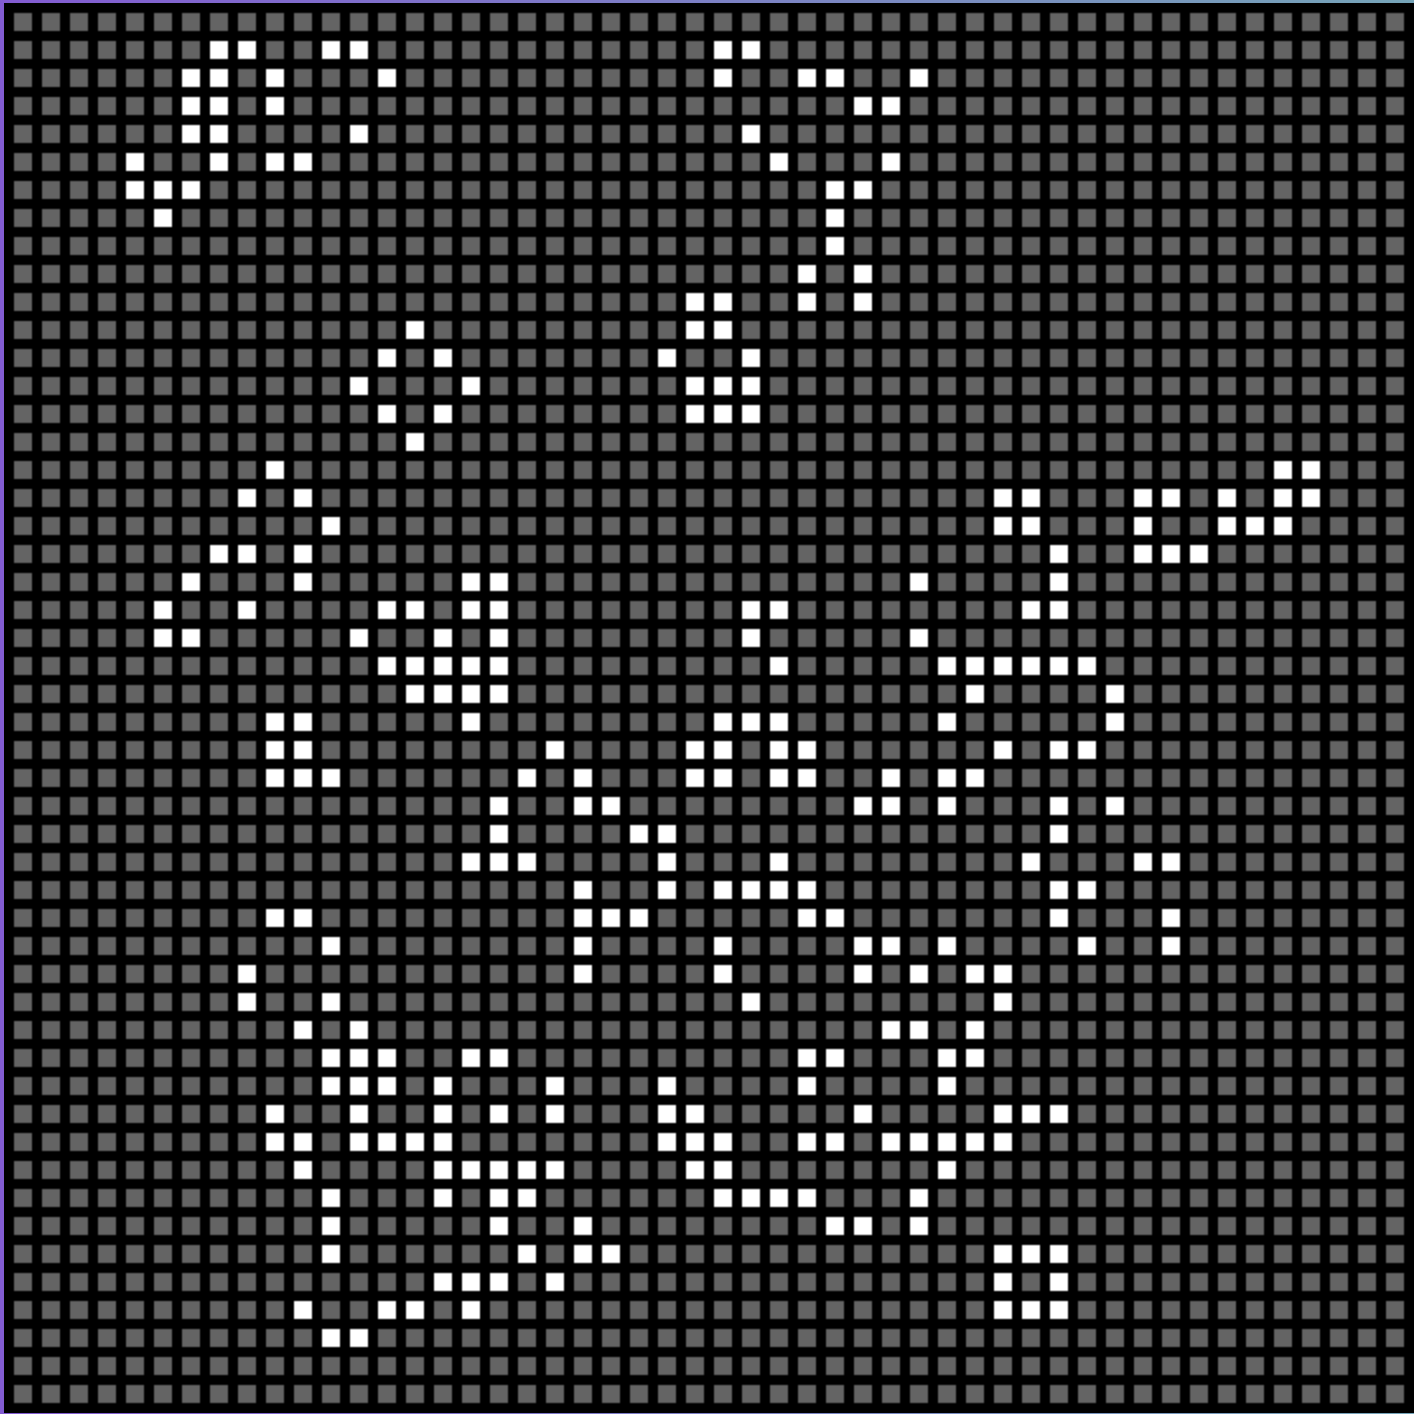
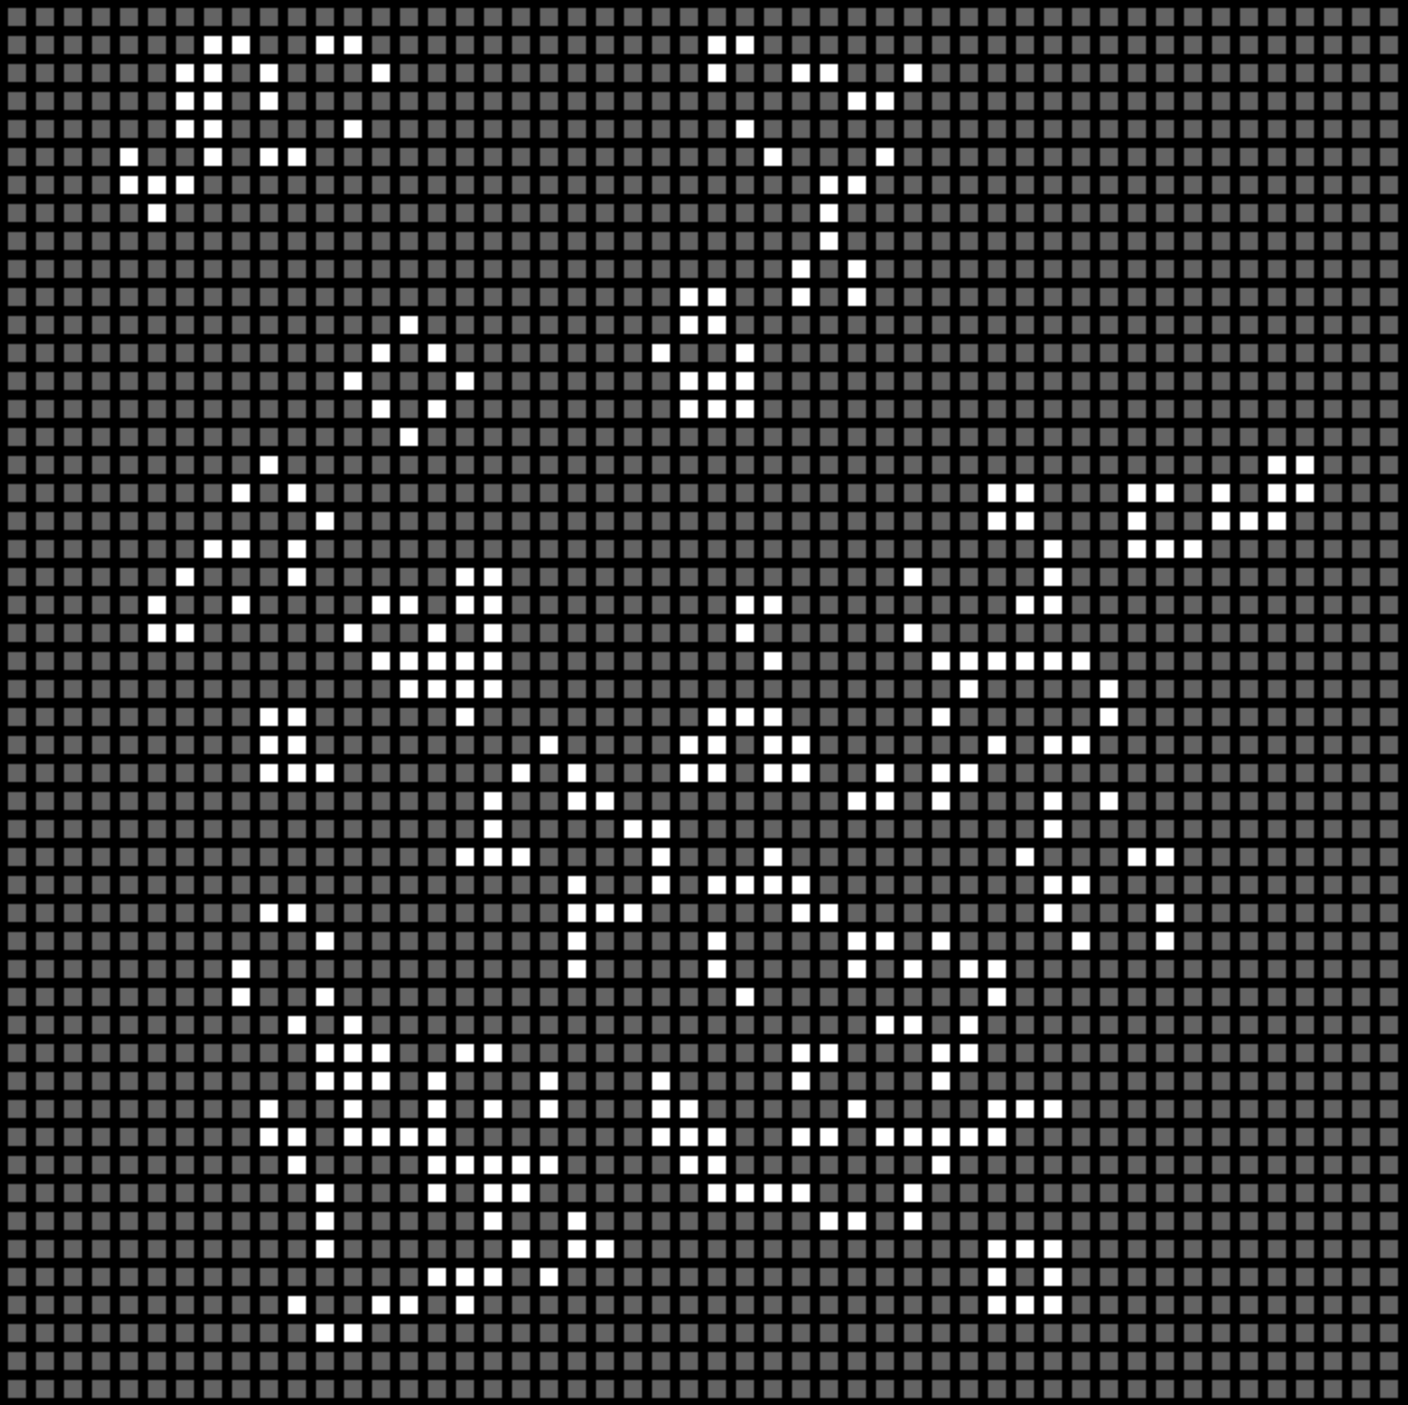
delete game and fix selection

diff --git a/game_of_life/gameoflife.js b/game_of_life/gameoflife.js
@@ -1,7 +1,9 @@
 const canvas = document.getElementById("canvas");
-canvas.height = 705;
-canvas.width = 705;
-const spotSize = 14;
+let square_side = Math.min(Math.min(window.innerWidth, window.innerHeight) - 150, 800);
+square_side -= square_side%8;
+canvas.setAttribute('width', (square_side + 5).toString());
+canvas.setAttribute('height',(square_side + 5).toString());
+let spotSize = square_side / 50;
 const context = canvas.getContext("2d");
 
 //board
@@ -26,25 +28,36 @@ for (const control of controls.children) {
             board = pastBoard;
             DrawBoard();
         } else if (control.id === "clear") {
-            pastBoard = board = Array(50).fill().map(() => Array(50).fill(0));
+            board = Array(50).fill().map(() => Array(50).fill(0));
+            simulation = false;
             DrawBoard();
         }
     }
 }
 
 //colors of the spots
-let colors = ["rgb(100, 100, 100)", "white"];
+let colors = ["rgb(120, 120, 120)", "white"];
 
 //see if user is dragging click
 let drag = false;
 
-canvas.onclick = (e) => {
+//see if user moved
+let moved = false;
+
+canvas.onmouseup = (e) => {
+    drag = moved;
     const rect = canvas.getBoundingClientRect();
     let x = e.clientX - rect.left;
     let y = e.clientY - rect.top;
-    x = Math.floor(x / 14);
-    y = Math.floor(y / 14);
-    board[y][x] === 0 ? board[y][x] = 1 : board[y][x] = 0;
+    x = Math.floor(x / spotSize);
+    y = Math.floor(y / spotSize);
+    if (!drag) { 
+        board[y][x] === 0 ? board[y][x] = 1 : board[y][x] = 0
+    } else {
+        board[y][x] = 1;
+        drag = false;
+    }
+    moved = false;
     pastBoard = board;
     DrawBoard();
 }
@@ -54,17 +67,14 @@ canvas.onmousedown = () => {
     drag = true;
 }
 
-canvas.onmouseup = () => {
-    drag = false;
-}
-
 canvas.onmousemove = (e) => {
     if (drag) {
+        moved = true;
         const rect = canvas.getBoundingClientRect();
         let x = e.clientX - rect.left;
         let y = e.clientY - rect.top;
-        x = Math.floor(x / 14);
-        y = Math.floor(y / 14);
+        x = Math.floor(x / spotSize);
+        y = Math.floor(y / spotSize);
         board[y][x] = 1;
         pastBoard = board;
         DrawBoard();
@@ -90,9 +100,18 @@ function SeeAroundPos(position) {
         let y = Math.floor(position / 50);
         x += xOffsets[i];
         y += yOffsets[i];
-        if (x >= 0 && y >= 0 && x < 50 && y < 50) {
-            OpenPositions.push([y, x]);
+        if (x < 0) {
+            x = 49;
+        } else if (x > 49) {
+            x = 0;
         }
+
+        if (y < 0) {
+            y = 49;
+        } else if (y > 49) {
+            y = 0;
+        }
+        OpenPositions.push([y, x]);
     }
     return OpenPositions;
 }
@@ -124,5 +143,14 @@ let GameSimulation = setInterval(() => {
         DrawBoard();
     }
 }, 100)
+
+window.onresize = () => {
+    let square_side = Math.min(Math.min(window.innerWidth, window.innerHeight) - 150, 800);
+    square_side -= square_side%8;
+    canvas.setAttribute('width', (square_side + 5).toString());
+    canvas.setAttribute('height',(square_side + 5).toString());
+    spotSize = square_side / 50;
+    DrawBoard();
+}
 
 DrawBoard();

diff --git a/game_of_life/index.html b/game_of_life/index.html
@@ -95,7 +95,12 @@
             <div id="clear">X</div>
         </div>
         <h4>Rules</h4>
-        <p>This is a copy of Conway's Game of Life. In this game, each spot can be in two states: alive or dead. An alive spot can stay alive if it has two or three neighbors. An alive spot can become dead if it has more than three neighbors or less than two neighbors. A dead spot can become alive if it has three neighbors. You can select spots on the board by clicking or by clicking and dragging. To start the simulation, press the play button. To stop the simulation, press the pause button. To go back to the previous state, press the rewind button.</p>
+        <p>This is a copy of Conway's Game of Life. In this game, each spot can be in two states: alive or dead. An alive spot can stay alive if it has two or three neighbors. 
+            An alive spot can become dead if it has more than three neighbors or less than two neighbors. A dead spot can become alive if it has three neighbors. 
+            The only difference is that if a spot is at the edge, it treats the spot in the oppisite side to be right next to it. 
+            You can select spots on the board by clicking or by clicking and dragging. To start the simulation, press the play button. To stop the simulation, press the pause button. 
+            To go back to the previous state, press the rewind button.
+        </p>
         <script src="./gameoflife.js"></script>
     </body>
 </html>
